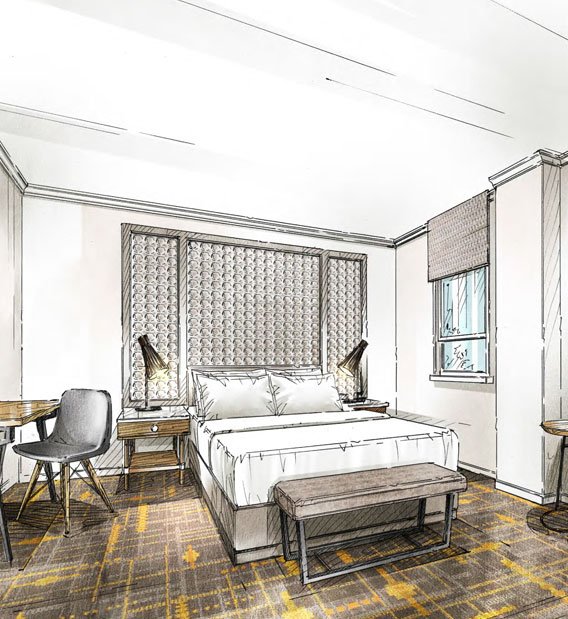
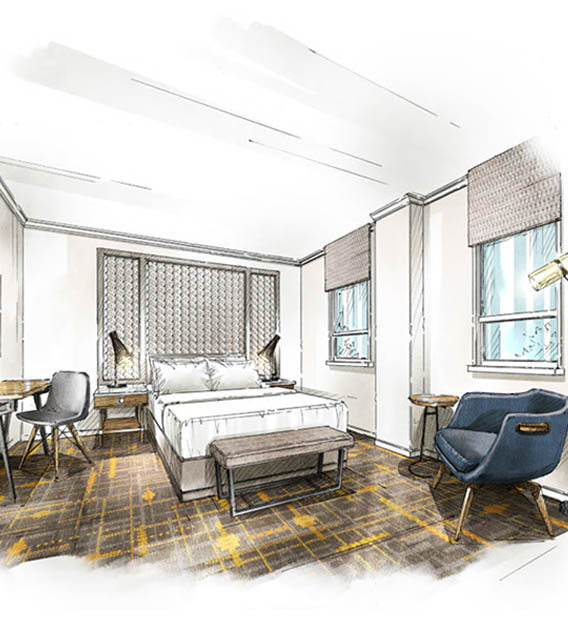
reno comment latest changes

diff --git a/reboot.html b/reboot.html
@@ -28,7 +28,7 @@ meta_keywords_localized:
                 <img class="reboot2" src="../images/reboot/reboot-icon.png" alt="REBOOT">
             </div>
             <div class="text">
-                <p> We are excited to kick off our multi-million dollar transformation. Our property-wide reboot will further elevate our authentic San Francisco experience while anticipating the preferences of the technology-focused traveler. </p> 
+                <p> We are excited to kick off our multi-million dollar transformation. Our property-wide reboot will further elevate our authentic San Francisco experience while anticipating the preferences of the technology-focused traveler. <br> The reboot has phases, allowing us to remain open and operational throughout the process. So glad to welcome you along on this journey!</p> 
             </div>
             
         </div>
@@ -57,9 +57,9 @@ meta_keywords_localized:
           <div class="right-cell">  
                   <div class="content ">   
                   <hr > 
-                  <p>For starters your arrival experience is going to be getting a big makeover as will our lobby, cafe, bar, fitness center and meeting rooms  As you exit your uber, you'll see gleaming racks of mountain bikes and fast little zip cars begging to be taken for a ride. </p>
+                  <p>For starters your arrival experience is going to be getting a big makeover as will our lobby, cafe, bar, fitness center and meeting rooms  As you arrive, you'll see gleaming racks of mountain bikes and fast little zip cars begging to be taken for a ride. </p>
 
-                  <p>Phase two will offer reimagined guest room designs as sanctuaries of calm and relaxation,. A new modern color palette of stark whites, subtle grays, and bold blues accented by gold highlights, rustic wood features, and thematic references to Nob Hill’s illustrious past.</p> 
+                  <p>Phase two will offer edgy but inviting guestrooms. Expect cool graphics and a new, modern color pallet.</p> 
                   <hr > 
                   </div>
 
@@ -74,8 +74,9 @@ meta_keywords_localized:
             <div class="right-cell">
                <div class="right-content">
                <hr align="left">
-               <p>Sleek design elements and communal working spaces reflective of Bay Area technology startups will be integrated, Stanford Court partnered with EDG a leader in hospitality and commercial design.  Guided by the design concept “where tomorrow meets yesterday” the newly-renovated Stanford Court will integrate Nob Hill’s grand history with the innovative and tech focused spirit of today’s San Francisco.<br>  spirit of today’s San Francisco.</p>
-               <p>The hotel will remain operational through the reboot process.  We will continue to share with you our progress.  </p>
+               <!--p>Sleek design elements and communal working spaces reflective of Bay Area technology startups will be integrated, Stanford Court partnered with EDG a leader in hospitality and commercial design.  Guided by the design concept “where tomorrow meets yesterday” the newly-renovated Stanford Court will integrate Nob Hill’s grand history with the innovative and tech focused spirit of today’s San Francisco.<br>  spirit of today’s San Francisco.</p-->
+               <p>A totally reworked and re-wowed living room that’s perfect for getting the download or killing some downtime. Get ready for a space that’s even easier to feel right at home in. Stanford Court partnered with EDG, a leader in hospitality and commercial design. Guided by the design concept “where tomorrow meets yesterday” the updated 2.0 version of Stanford Court will integrate Nob Hill’s grand history with the innovative and tech focused spirit of today’s San Francisco.</p>
+               <!--p>The hotel will remain operational through the reboot process.  We will continue to share with you our progress.  </p-->
                 <hr align="left">
                </div>
             </div>
